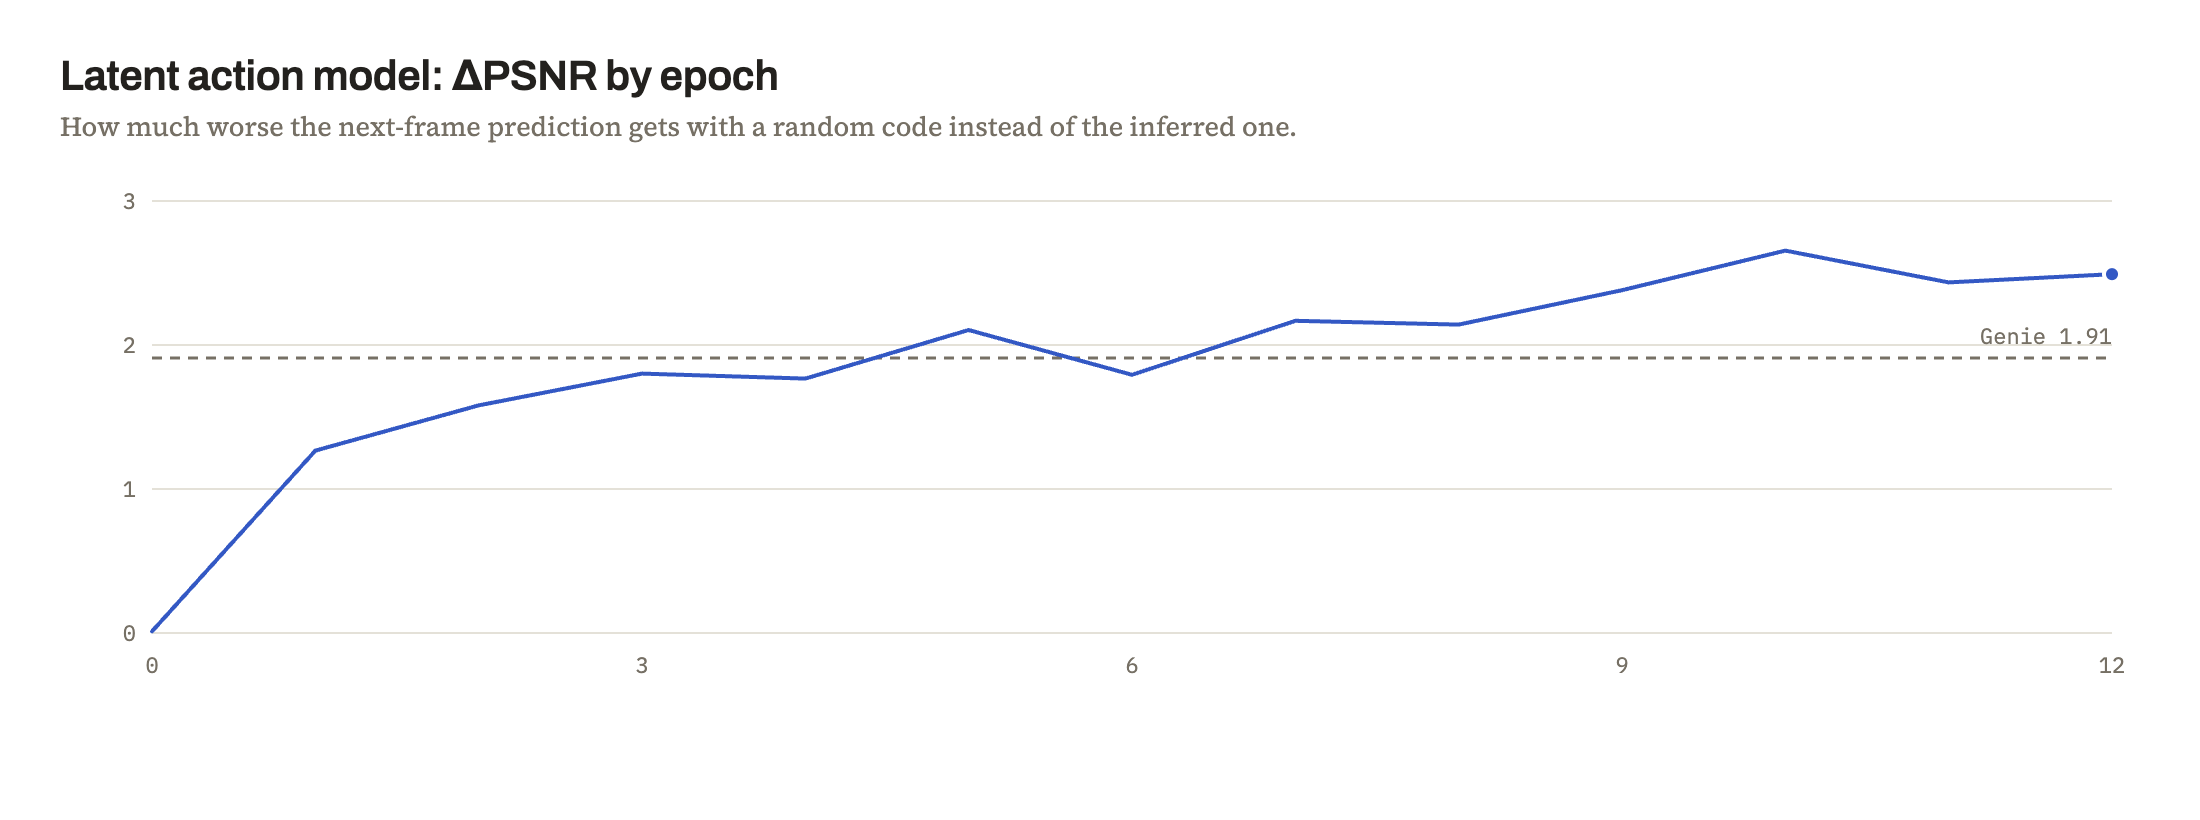
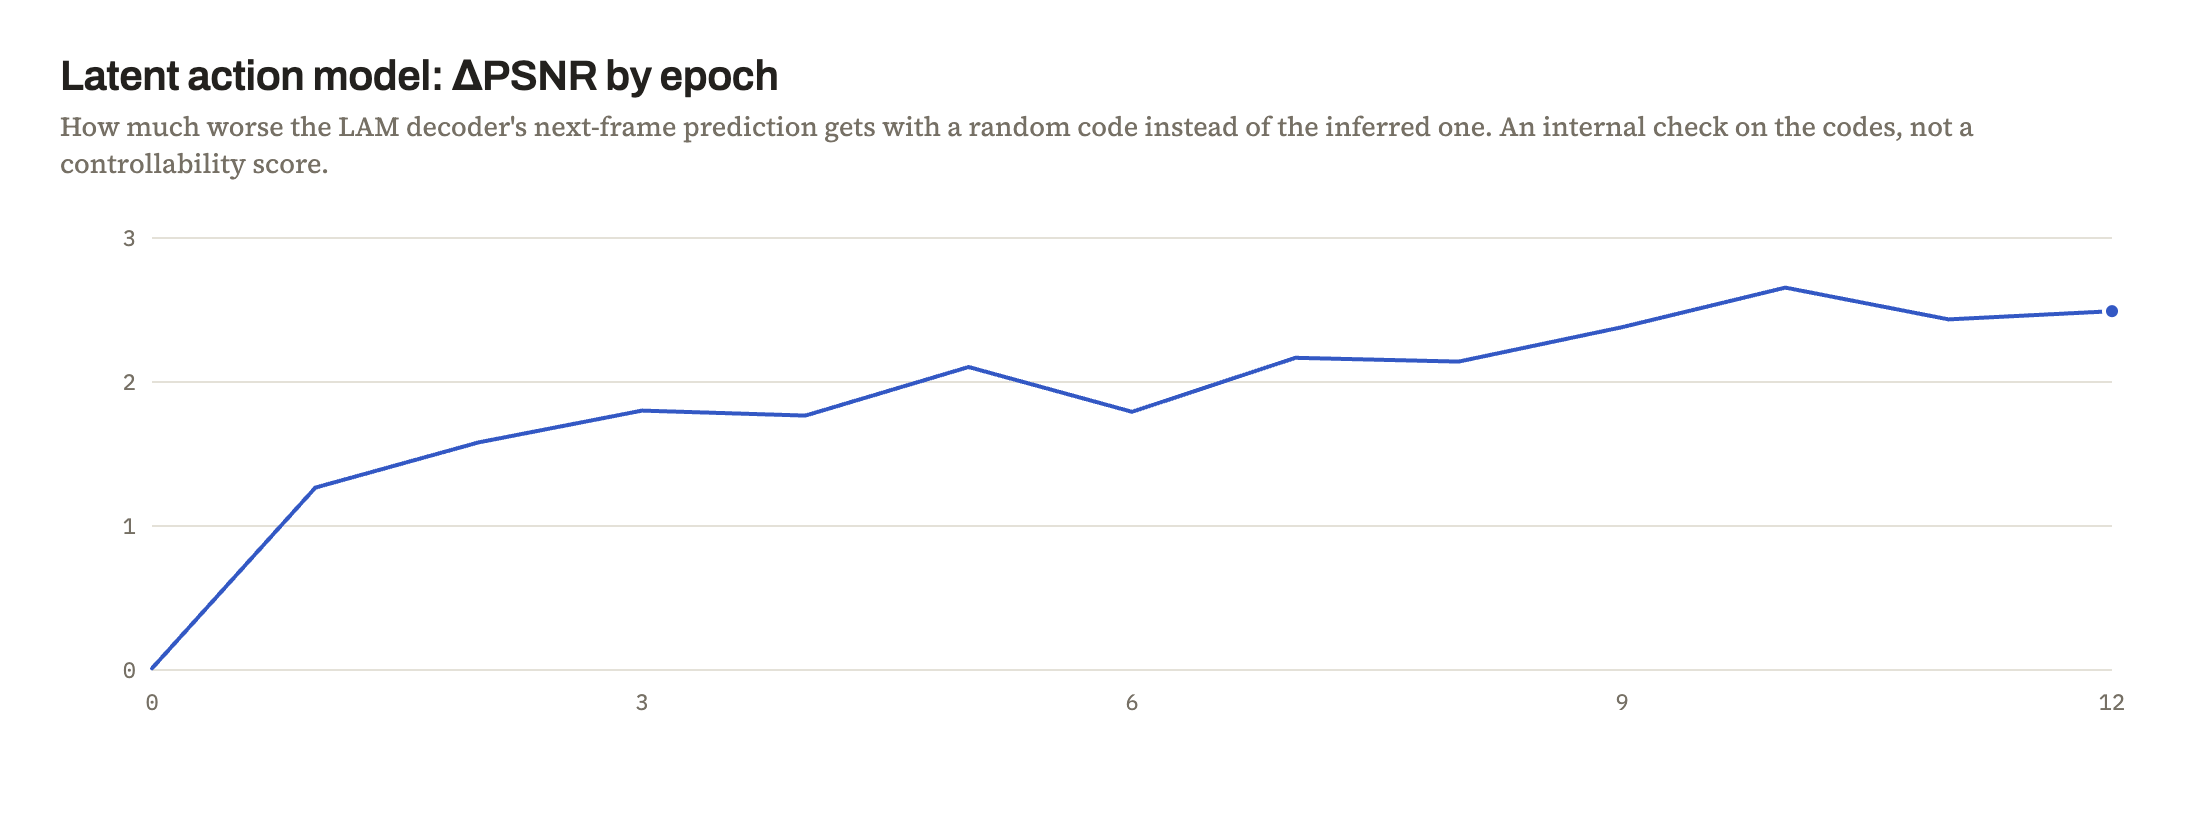
Stop comparing the LAM's delta-PSNR with Genie's 1.91
The two numbers measure different things. Genie's is model-level
controllability, scored on video the dynamics model generated, at frame 4.
Ours is the LAM's own decoder scoring the task it was trained on, which is
an internal check that the codes carry motion and says nothing about how
controllable the world is. The comparison is gone from the results text, the
figure, its caption and the conclusion, and the chart no longer draws 1.91
as a reference line. Controllability is now claimed only where it is
measured: the dynamics model's action effect.

diff --git a/docs/index.html b/docs/index.html
@@ -1473,14 +1473,15 @@
               marked where they appear.
             </p>
             <p>
-              The latent action model trained with no action labels at all,
-              reached a reported ΔPSNR of 2.49, meaning its next-frame
-              prediction is about 2.5 dB worse with a random code than with the
-              one it inferred. Genie reports 1.91 for the 2.5B pixel-input model
-              in its platformer ablation. That is a reference point, not a
-              controlled comparison: the datasets differ, and Genie reports its
-              metric at <var>t</var> = 4 while our scoring code also averages
-              across transitions.
+              The latent action model trained with no action labels at all, and
+              its ΔPSNR reached 2.49: its own decoder predicts the next frame
+              about 2.5 dB worse when handed a random code instead of the one it
+              inferred. Read that as an internal check that the codes carry
+              motion, not as a controllability score. It is measured on the LAM
+              decoder, which is trained on exactly that task, so it says nothing
+              about the world model a player interacts with. The controllability
+              number for the full system is the dynamics model’s action effect
+              below.
             </p>
             <figure class="results-figure">
               <img
@@ -1489,13 +1490,14 @@
                 height="820"
                 loading="lazy"
                 decoding="async"
-                alt="Line chart: ΔPSNR rises from 0 at epoch 0 to about 2.5 by epoch 12, crossing Genie's reported 1.91 at epoch 4."
+                alt="Line chart: the LAM's ΔPSNR rises from 0 at epoch 0 to about 2.5 by epoch 12."
               />
               <figcaption>
                 <span class="caption-label">Figure 18.</span> ΔPSNR by epoch,
-                from the checkpoint’s own evaluation history. The dashed line
-                marks Genie’s reported 1.91, which is a reference point rather
-                than a matched evaluation.
+                from the checkpoint’s own evaluation history. This is the LAM
+                decoder scoring the task it was trained on, so it measures
+                whether the codes carry motion, not how controllable the world
+                model is.
               </figcaption>
             </figure>
             <p>
@@ -1620,12 +1622,12 @@
               at about 5 frames a second in our demo.
             </p>
             <p>
-              The latent action model was surprisingly accurate. Given only raw
-              frames, it sorted camera motion into eight buckets and reached a
-              reported ΔPSNR above Genie’s platformer result, though not under a
-              matched evaluation. In our observations, that gap grew over longer
-              rollouts, and the action effect was still climbing when we ran out
-              of time.
+              The latent action model was the surprise. Given only raw frames and
+              no action labels, it sorted camera motion into eight buckets that
+              agree with real Doom turns well above chance. Whether the world
+              model itself listens to those codes is a separate question, and
+              the dynamics model’s action effect answers it: still climbing when
+              we ran out of time.
             </p>
             <p>
               One cool attribute was memory within the world model. If one did a
